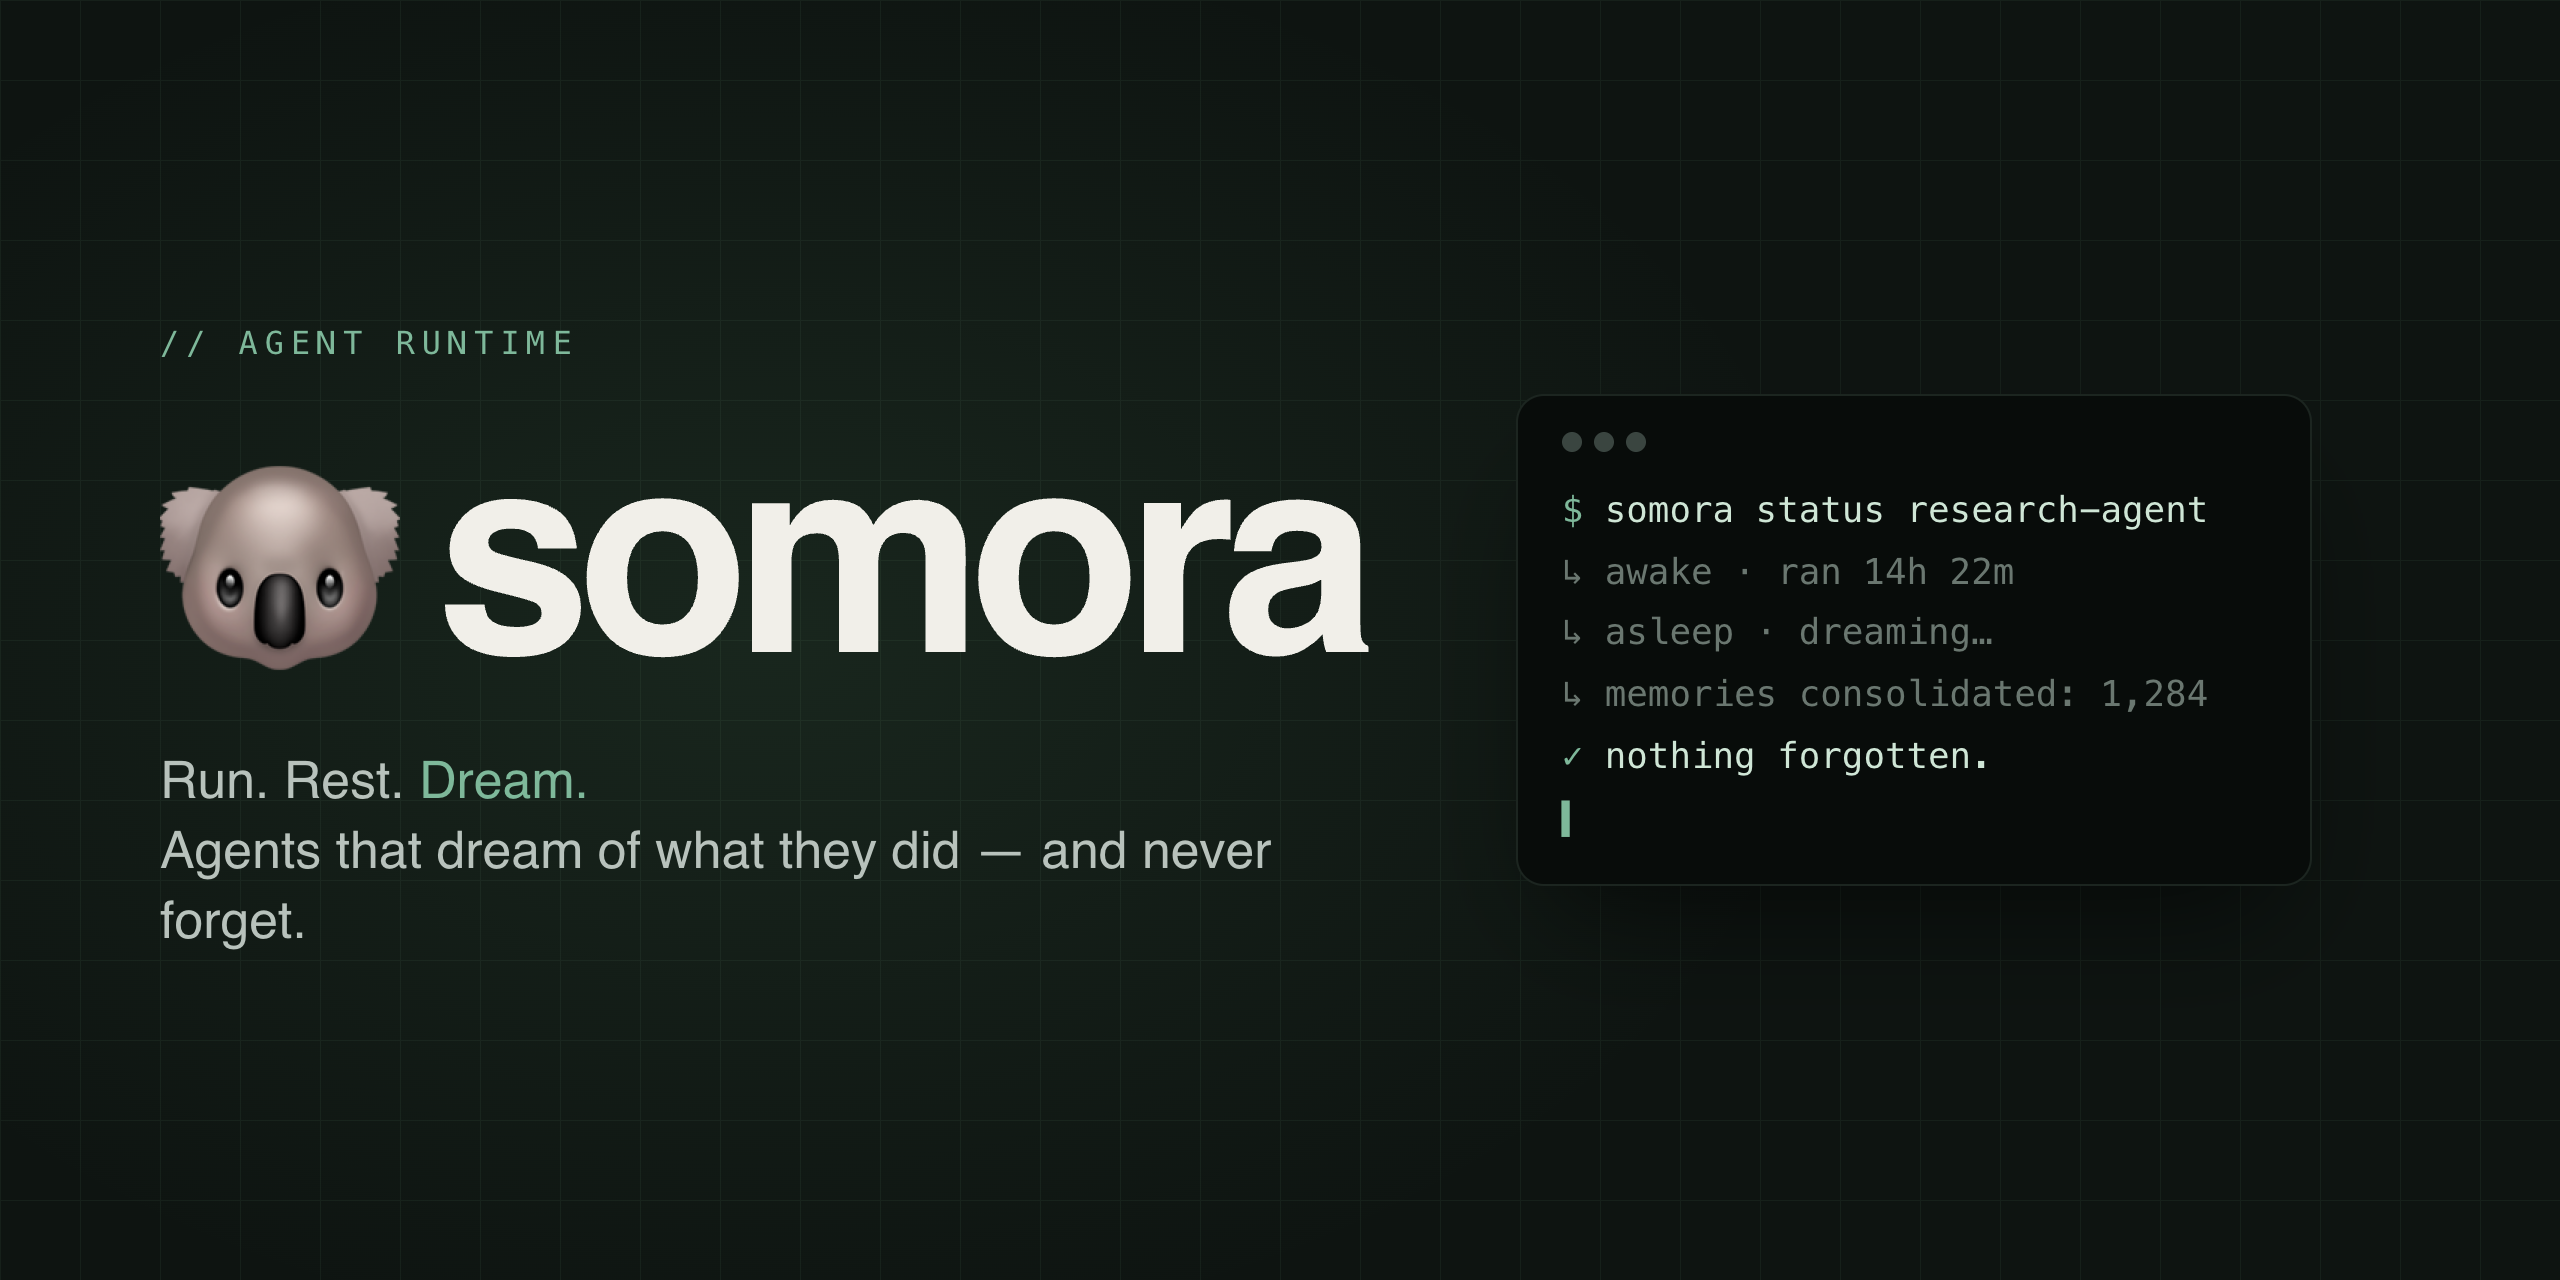
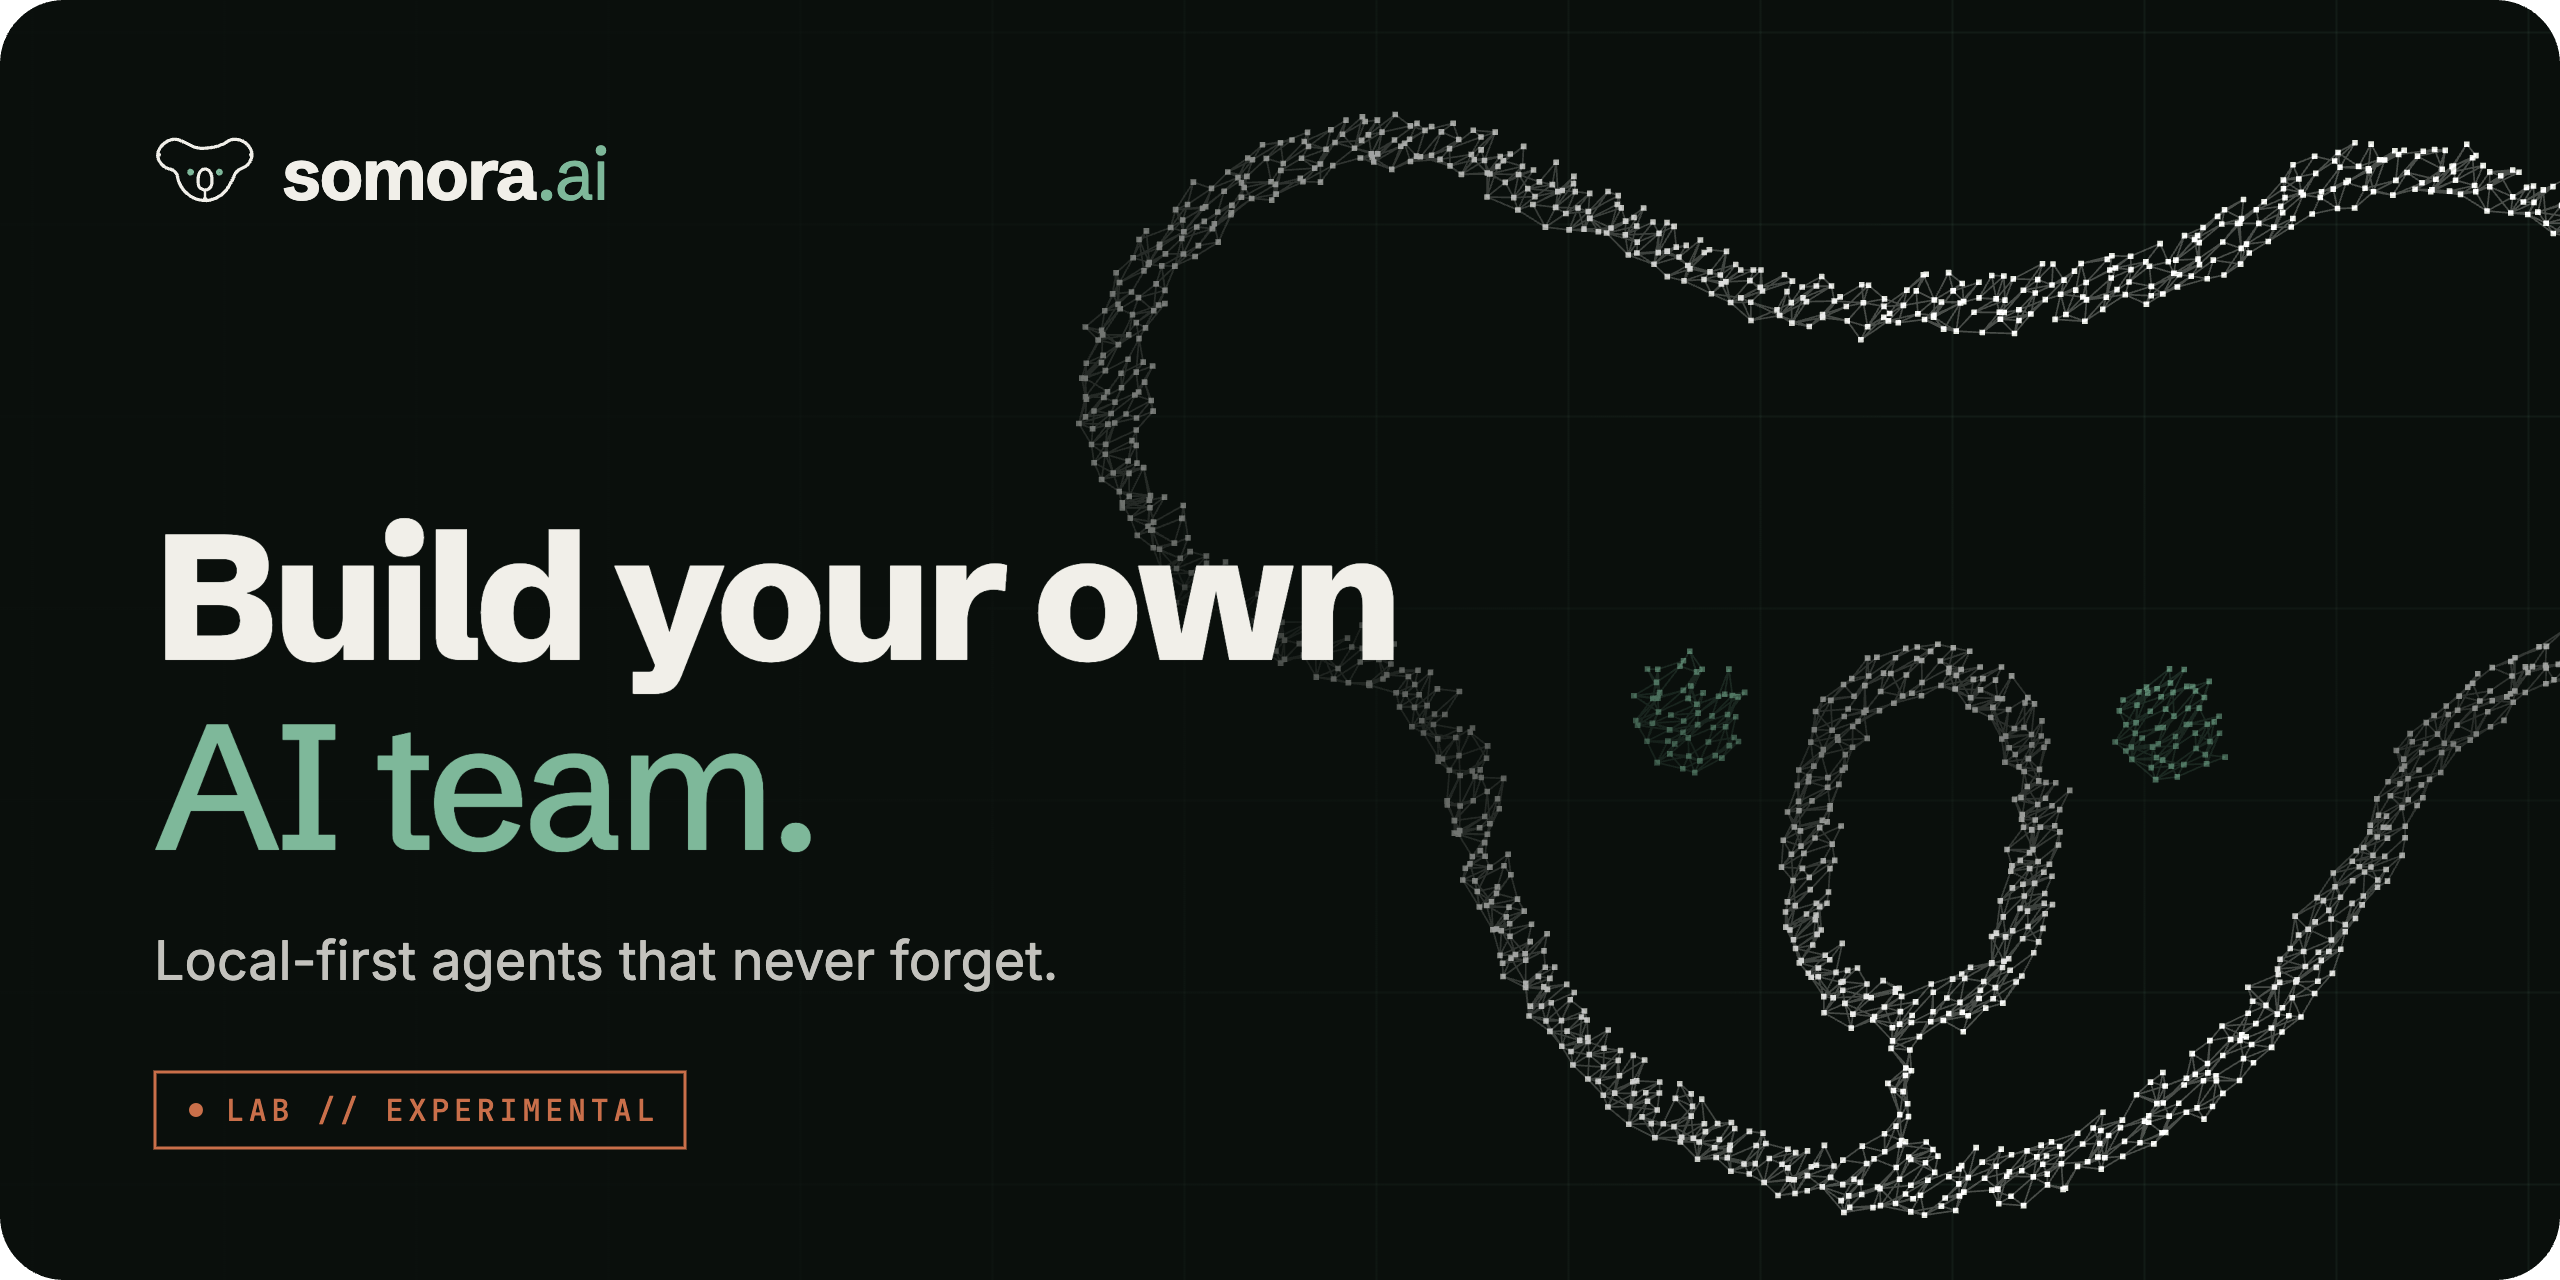
README: the new hero image from the somora.ai design — Build your own AI team, local-first agents that never forget (2560×1280, 189 KB, works on light and dark)

diff --git a/README.md b/README.md
@@ -1,5 +1,5 @@
 <p align="center">
-  <img src="docs/images/somora-hero.png" alt="somora — agent runtime. Run. Rest. Dream. Agents that dream of what they did and never forget." />
+  <img src="docs/images/somora-hero.png" alt="somora.ai — Build your own AI team. Local-first agents that never forget." />
 </p>
 
 # somora 🐨
